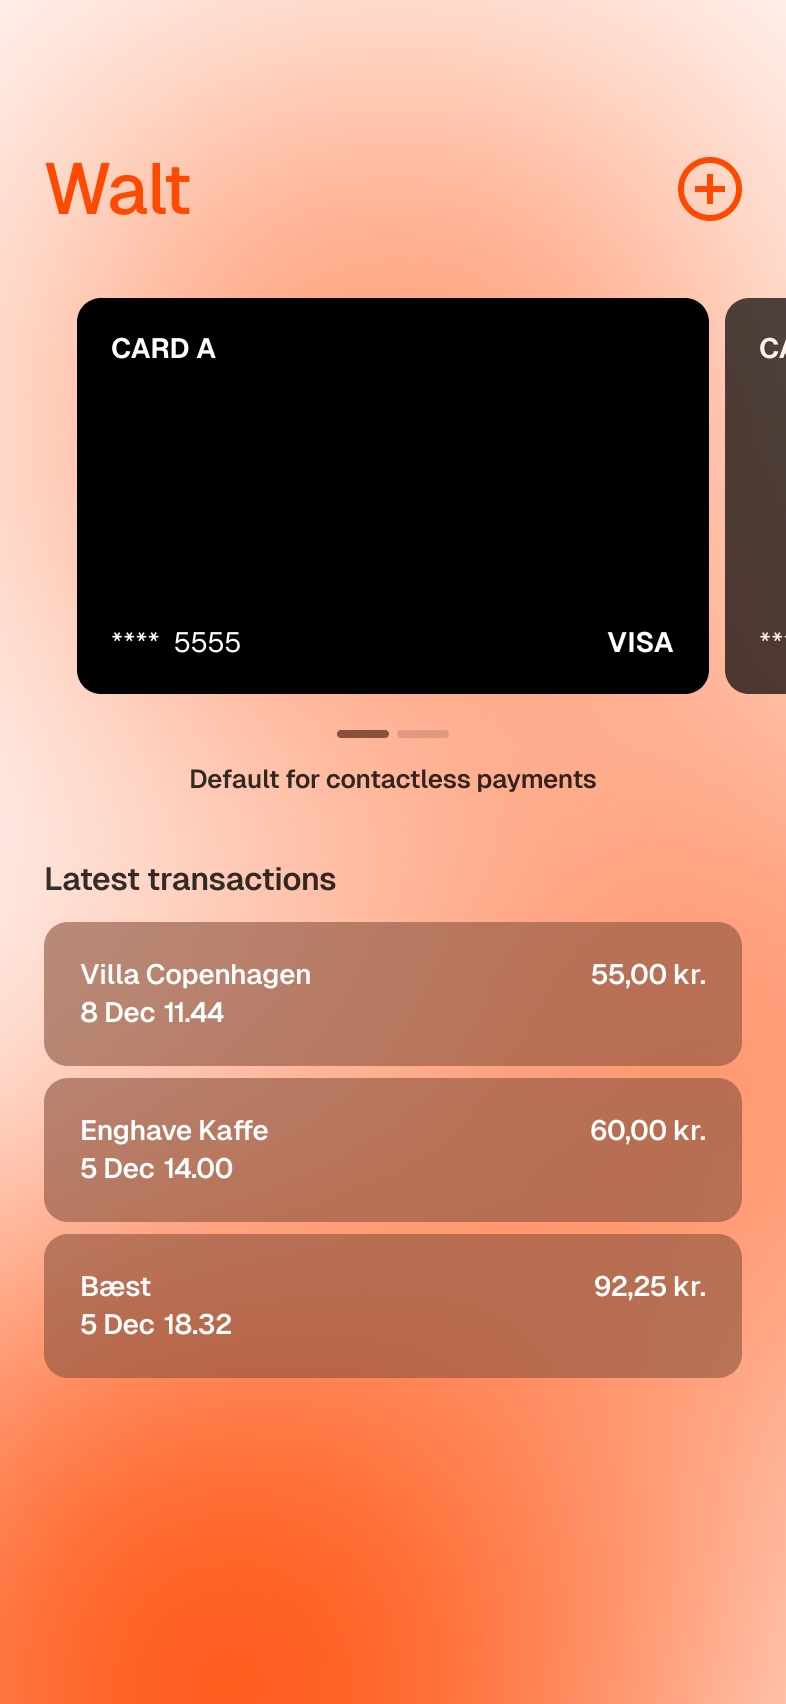
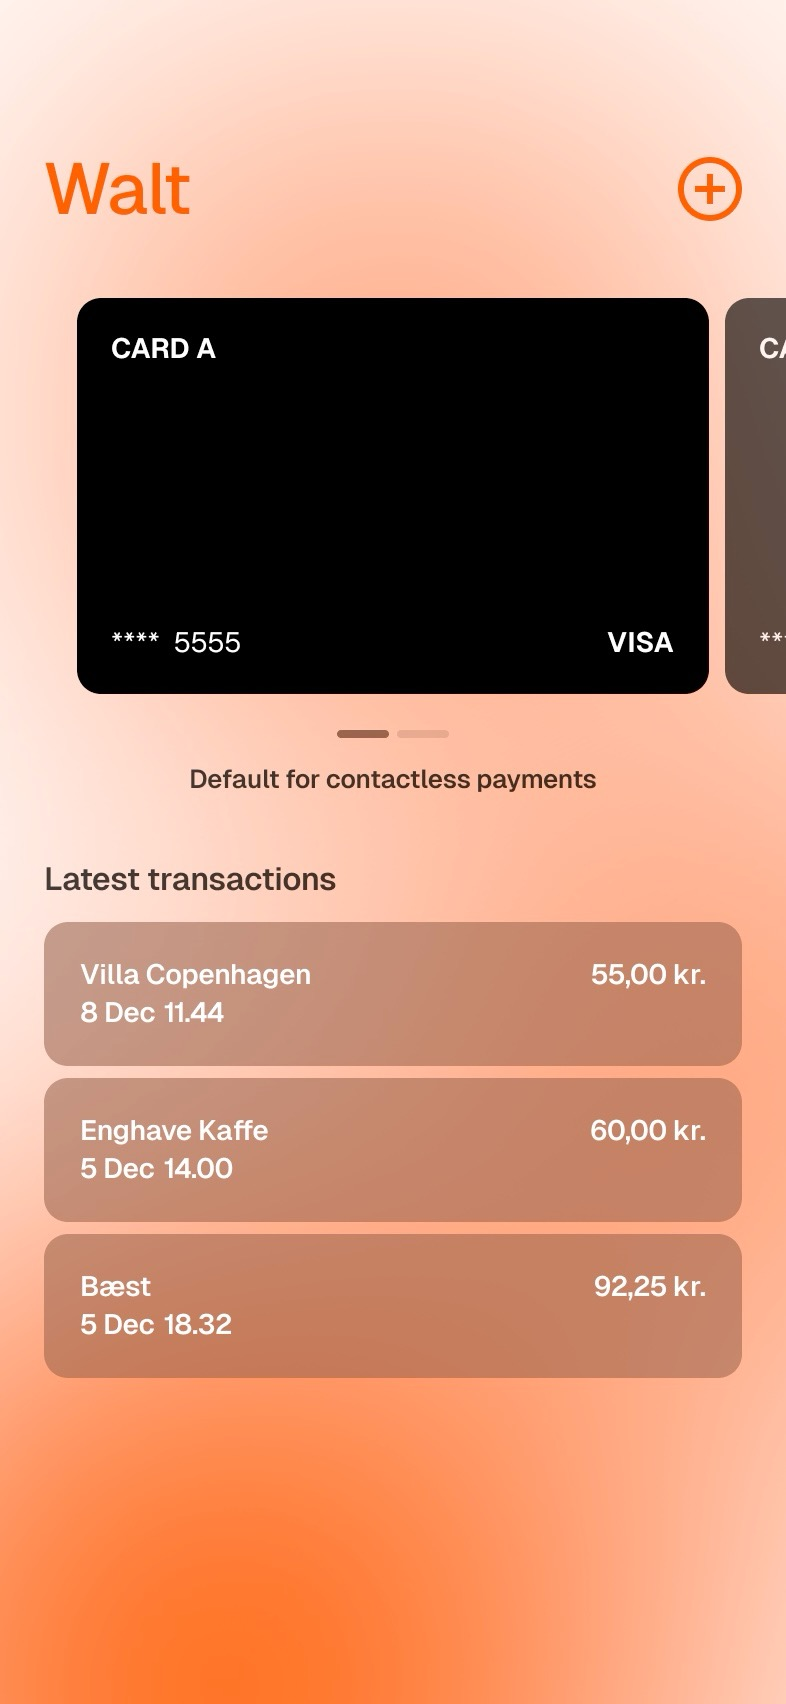
Add CSS-based phone frame mockup (#20)
* Add CSS-based phone frame mockup around screenshots

Creates realistic phone frame effect using pure CSS:
- Dark gradient phone body with rounded corners
- Top notch and camera dot for modern Android look
- Layered shadows and borders for depth
- No external dependencies or image files needed

* Use phone frame PNG with proper sizing

- Add Google Pixel 8 phone frame PNG (356x750px)
- Position screenshots inside frame using static pixel dimensions
- Use object-fit: contain to show full screenshot without cropping
- Remove duplicate hero subheading text (now only in phone image)
- Remove old hero-wallet.png placeholder

* Convert screenshots to sRGB color space for consistent colors

* Refine phone frame sizing and positioning

- Reduce frame size to 320×700px for better proportions
- Use percentage-based sizing (100%) for wrapper and image
- Increase border radius to 40px to better match frame curves
- Image height set to 95% to fine-tune fit within frame

diff --git a/styles/globals.css b/styles/globals.css
@@ -40,8 +40,13 @@
   --radius-sm: 6px;
 }
 
-html, body {
-  font-family: 'Geist', -apple-system, BlinkMacSystemFont, sans-serif;
+html,
+body {
+  font-family:
+    "Geist",
+    -apple-system,
+    BlinkMacSystemFont,
+    sans-serif;
   min-height: 100%;
   background: var(--bg-white);
   color: var(--text-black);
@@ -55,8 +60,13 @@ body {
 }
 
 /* Typography */
-h1, h2, h3, h4, h5, h6 {
-  font-family: 'Geist', sans-serif;
+h1,
+h2,
+h3,
+h4,
+h5,
+h6 {
+  font-family: "Geist", sans-serif;
   font-weight: 600;
   letter-spacing: -0.02em;
   line-height: 1.1;
@@ -96,7 +106,7 @@ h1, h2, h3, h4, h5, h6 {
 }
 
 .section-eyebrow {
-  font-family: 'Geist', sans-serif;
+  font-family: "Geist", sans-serif;
   font-size: 0.75rem;
   font-weight: 600;
   letter-spacing: 0.24em;
@@ -105,7 +115,7 @@ h1, h2, h3, h4, h5, h6 {
 }
 
 .section-heading {
-  font-family: 'Geist', sans-serif;
+  font-family: "Geist", sans-serif;
   font-size: clamp(2rem, 3.6vw, 3rem);
   font-weight: 600;
   line-height: 1.1;
@@ -114,7 +124,7 @@ h1, h2, h3, h4, h5, h6 {
 }
 
 .section-lead {
-  font-family: 'Geist', sans-serif;
+  font-family: "Geist", sans-serif;
   font-size: 1.125rem;
   font-weight: 500;
   line-height: 1.6;
@@ -128,7 +138,11 @@ h1, h2, h3, h4, h5, h6 {
   align-items: center;
   justify-content: center;
   padding: 80px var(--padding-xl) 96px;
-  background: linear-gradient(180deg, var(--orange-gradient-start) 0%, var(--orange-gradient-end) 100%);
+  background: linear-gradient(
+    180deg,
+    var(--orange-gradient-start) 0%,
+    var(--orange-gradient-end) 100%
+  );
   color: var(--text-black);
   min-height: 100vh;
 }
@@ -160,7 +174,7 @@ h1, h2, h3, h4, h5, h6 {
 }
 
 .hero-title {
-  font-family: 'Geist', sans-serif;
+  font-family: "Geist", sans-serif;
   font-size: clamp(2.5rem, 5vw, 3rem);
   font-weight: 600;
   line-height: 1;
@@ -169,7 +183,7 @@ h1, h2, h3, h4, h5, h6 {
 }
 
 .hero-subhead {
-  font-family: 'Geist', sans-serif;
+  font-family: "Geist", sans-serif;
   font-size: 1.125rem;
   font-weight: 500;
   letter-spacing: -0.01em;
@@ -198,7 +212,7 @@ h1, h2, h3, h4, h5, h6 {
   background: var(--bg-white);
   border: none;
   color: var(--text-black);
-  font-family: 'Geist', sans-serif;
+  font-family: "Geist", sans-serif;
   font-size: 1rem;
   font-weight: 500;
   padding: var(--padding-sm) var(--padding-xl);
@@ -223,13 +237,15 @@ h1, h2, h3, h4, h5, h6 {
   padding: var(--padding-sm) var(--padding-xl);
   border: none;
   border-radius: var(--radius-pill);
-  font-family: 'Geist', sans-serif;
+  font-family: "Geist", sans-serif;
   font-size: 1.25rem;
   font-weight: 500;
   color: var(--text-white);
   background: var(--bg-black);
   cursor: pointer;
-  transition: transform 0.2s ease, opacity 0.2s ease;
+  transition:
+    transform 0.2s ease,
+    opacity 0.2s ease;
 }
 
 .hero-button:hover:not(:disabled) {
@@ -254,7 +270,7 @@ h1, h2, h3, h4, h5, h6 {
   padding: var(--padding-xs) var(--padding-lg);
   border-radius: var(--radius-pill);
   border: 2px solid var(--text-black);
-  font-family: 'Geist', sans-serif;
+  font-family: "Geist", sans-serif;
   font-size: 1rem;
   font-weight: 600;
   color: var(--text-black);
@@ -284,8 +300,53 @@ h1, h2, h3, h4, h5, h6 {
   display: flex;
   align-items: center;
   justify-content: center;
-  border-radius: 0;
   overflow: visible;
+}
+
+/* Phone frame mockup styling - static pixel dimensions matching phone-frame.png (356×750px) */
+.phone-mockup {
+  position: relative;
+  width: 320px;
+  height: 700px;
+  display: flex;
+  align-items: center;
+  justify-content: center;
+  margin: 0 auto;
+}
+
+/* Target Next.js Image wrapper span - fill entire container */
+.phone-mockup > span {
+  position: absolute !important;
+  inset: 0 !important;
+  width: 100% !important;
+  height: 100% !important;
+  z-index: 1 !important;
+}
+
+/* Target the actual img element inside - scale to fit without cropping */
+.phone-mockup img {
+  object-fit: contain !important;
+  object-position: center !important;
+  border-radius: 40px !important;
+  width: 100% !important;
+  height: 95% !important;
+  position: relative !important;
+}
+
+/* Phone frame overlay on top */
+.phone-mockup::after {
+  content: "";
+  position: absolute;
+  top: 0;
+  left: 0;
+  width: 100%;
+  height: 100%;
+  background-image: url("/phone-frame.png");
+  background-size: contain;
+  background-repeat: no-repeat;
+  background-position: center;
+  z-index: 2;
+  pointer-events: none;
 }
 
 .hero-image {
@@ -324,7 +385,7 @@ h1, h2, h3, h4, h5, h6 {
 }
 
 .info-card h3 {
-  font-family: 'Geist', sans-serif;
+  font-family: "Geist", sans-serif;
   font-size: 1.25rem;
   font-weight: 700;
   color: var(--text-white);
@@ -351,7 +412,7 @@ h1, h2, h3, h4, h5, h6 {
 }
 
 .timeline::before {
-  content: '';
+  content: "";
   position: absolute;
   left: 0.5rem;
   top: 0;
@@ -368,7 +429,7 @@ h1, h2, h3, h4, h5, h6 {
 }
 
 .timeline-item::before {
-  content: '';
+  content: "";
   position: absolute;
   left: -0.5rem;
   top: 0.5rem;
@@ -380,7 +441,7 @@ h1, h2, h3, h4, h5, h6 {
 }
 
 .timeline-period {
-  font-family: 'Geist', sans-serif;
+  font-family: "Geist", sans-serif;
   font-size: 0.875rem;
   font-weight: 600;
   text-transform: uppercase;
@@ -397,7 +458,7 @@ h1, h2, h3, h4, h5, h6 {
 }
 
 .timeline-content h3 {
-  font-family: 'Geist', sans-serif;
+  font-family: "Geist", sans-serif;
   font-size: 1.125rem;
   font-weight: 700;
   margin-bottom: var(--gap-xxs);
@@ -440,7 +501,7 @@ h1, h2, h3, h4, h5, h6 {
 }
 
 .footer-mark {
-  font-family: 'Geist', sans-serif;
+  font-family: "Geist", sans-serif;
   font-size: 1rem;
   font-weight: 600;
   color: var(--text-black);
@@ -459,7 +520,7 @@ h1, h2, h3, h4, h5, h6 {
 }
 
 .footer-link {
-  font-family: 'Geist', sans-serif;
+  font-family: "Geist", sans-serif;
   font-size: 0.9375rem;
   font-weight: 600;
   color: var(--text-black);
@@ -477,7 +538,7 @@ h1, h2, h3, h4, h5, h6 {
   margin-top: var(--gap-sm);
   padding: var(--gap-sm) var(--padding-md);
   border-radius: var(--radius-sm);
-  font-family: 'Geist', sans-serif;
+  font-family: "Geist", sans-serif;
   font-size: 0.9375rem;
   font-weight: 500;
   text-align: center;
@@ -582,7 +643,11 @@ h1, h2, h3, h4, h5, h6 {
 }
 
 .motivation-hero {
-  background: linear-gradient(180deg, var(--orange-gradient-start) 0%, var(--orange-gradient-end) 100%);
+  background: linear-gradient(
+    180deg,
+    var(--orange-gradient-start) 0%,
+    var(--orange-gradient-end) 100%
+  );
   padding: 96px var(--padding-xl) 48px;
 }
 
@@ -600,7 +665,7 @@ h1, h2, h3, h4, h5, h6 {
 .motivation-content {
   max-width: 900px;
   margin: 0 auto;
-  font-family: 'Geist', sans-serif;
+  font-family: "Geist", sans-serif;
   font-size: 1.0625rem;
   font-weight: 500;
   line-height: 1.7;
@@ -615,7 +680,7 @@ h1, h2, h3, h4, h5, h6 {
 .motivation-content h1,
 .motivation-content h2,
 .motivation-content h3 {
-  font-family: 'Geist', sans-serif;
+  font-family: "Geist", sans-serif;
   color: var(--text-black);
   margin-bottom: 1rem;
   margin-top: 2rem;
@@ -692,7 +757,7 @@ h1, h2, h3, h4, h5, h6 {
 }
 
 .references h3 {
-  font-family: 'Geist', sans-serif;
+  font-family: "Geist", sans-serif;
   font-size: 1.3rem;
   font-weight: 700;
   color: var(--text-black);

diff --git a/pages/index.js b/pages/index.js
@@ -224,10 +224,6 @@ export default function Home() {
           <div className="hero-inner">
             <div className="hero-copy">
               <h1 className="hero-title">Private tap-to-pay for Android.</h1>
-              <p className="hero-subhead">
-                No purchase tracking, no data harvesting, no AI, no crypto. Just a
-                predictable, respectful wallet app.
-              </p>
               <form onSubmit={handleSubmit} className="hero-form">
                 <div className="hero-input-group">
                   <input
@@ -259,7 +255,7 @@ export default function Home() {
               </div>
             </div>
             <div className="hero-visual">
-              <div className="hero-image-wrap">
+              <div className="phone-mockup">
                 <Image
                   src="/intro-screen.jpg"
                   alt="Walt app intro screen"
@@ -282,7 +278,7 @@ export default function Home() {
               </p>
             </div>
             <div className="hero-visual" style={{ width: '100%', maxWidth: '360px', margin: '0 auto' }}>
-              <div className="hero-image-wrap">
+              <div className="phone-mockup">
                 <Image
                   src="/home-screen.jpg"
                   alt="Walt app home screen showing cards"
